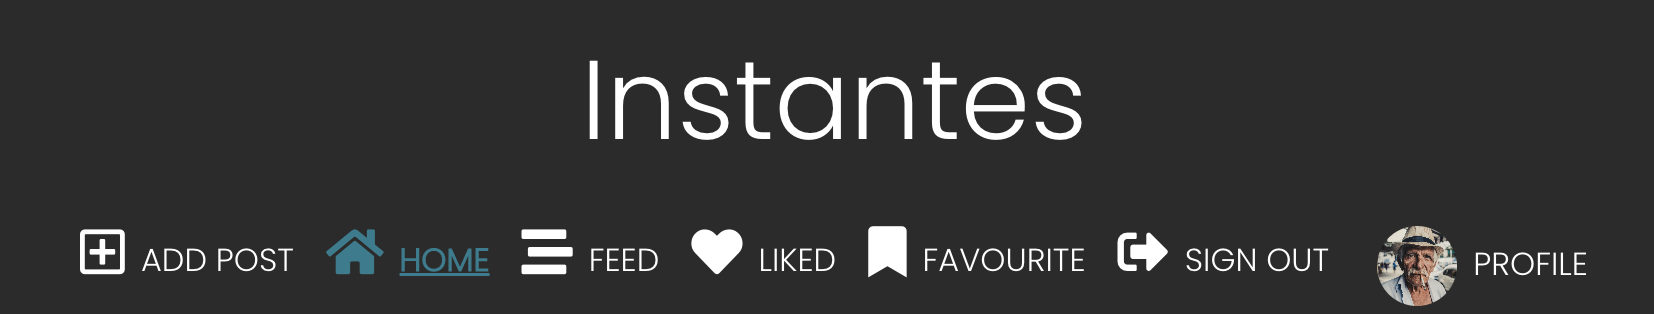
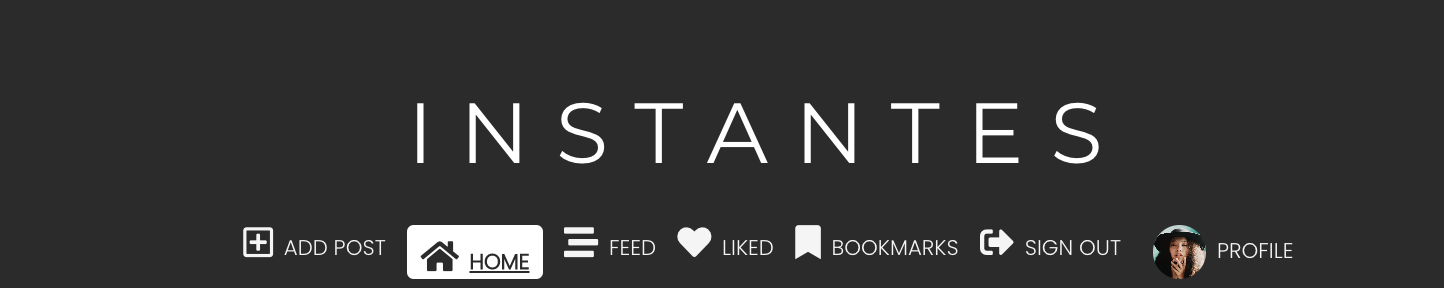
Update readme file with features content

Changed region(s): [[0.0312, 0.7188, 0.9661, 0.9688], [0.2805, 0.1875, 0.7791, 0.5625]]

diff --git a/README.md b/README.md
@@ -214,6 +214,59 @@ Logged in
 Logged out
 <img src="src/assets/comments.png" width="500px">
   
+
+* * * 
+
+### Add Post Page
+
+* * *
+
+When logged in user clicks on Add Post in the NavBar, the user can view...
+
+* NavBar displays with logged in icons as previous. Create Post link is larger and underlined.
+* Create Post Form including the following fields:
+    * Image user can click on to upload image.
+    * Title input field
+    * Description field
+    * Create button
+    * Cancel button
+
+
+<img src="src/assets/addpost.png" width="500px">
+
+* * * 
+
+### Edit Post Page
+
+* * *
+
+When logged in user clicks on three dots above their own post, the user can view...
+
+* NavBar displays with logged in icons as previous. Create Post link is larger and underlined.
+* Create Post Form including the following fields with default content:
+    * Image user can click on button below to upload new image.
+    * Title input field
+    * Description field
+    * Save button
+    * Cancel button
+
+
+<img src="src/assets/editpost.png" width="500px">
+
+* * * 
+
+### Liked Page 
+
+* * *
+
+When clicking liked, the user can view all their liked posts. The layout of the page is the same as the home page and the feed page. Only difference is this will display the users liked posts only!
+
+
+
+<img src="src/assets/liked.png" width="500px">
+
+* * * 
+
 ### Bookmarks Page 
 
 * * *
@@ -256,44 +309,7 @@ When logged in user clicks on Profile in the NavBar, the user can view...
 <img src="src/assets/profile.png" width="500px">
 <img src="src/assets/threedots.png" width="500px">
 
-
-### Add Post Page
-
-* * *
-
-When logged in user clicks on Add Post in the NavBar, the user can view...
-
-* NavBar displays with logged in icons as previous. Create Post link is larger and underlined.
-* Create Post Form including the following fields:
-    * Image user can click on to upload image.
-    * Title input field
-    * Description field
-    * Create button
-    * Cancel button
-
-
-<img src="src/assets/addpost.png" width="500px">
-
-
-
-
-
-### Edit Post Page
-
-* * *
-
-When logged in user clicks on three dots above their own post, the user can view...
-
-* NavBar displays with logged in icons as previous. Create Post link is larger and underlined.
-* Create Post Form including the following fields with default content:
-    * Image user can click on button below to upload new image.
-    * Title input field
-    * Description field
-    * Save button
-    * Cancel button
-
-
-<img src="src/assets/editpost.png" width="500px">
+* * * 
   
 ### Edit Profile Page
 
@@ -436,8 +452,8 @@ Hexedecimal icon for the search bar.
 
 A couple images for our Sign In and Sign Up pages: create the mood of the site. I purposefully picked images that go with the color scheme of the site: dark, deep, masculine colors.
 
-<img src="src/assets/image1.png" width="500px">
-<img src="src/assets/image2.png" width="500px">
+<img src="src/assets/sign-in.png" width="500px">
+<img src="src/assets/sign-up.png" width="500px">
 
 
 
@@ -455,20 +471,31 @@ FEATURES:
 
 *   LANDING PAGE: Without logging in....
     * Navbar: Header title "Instantes", Home, Sign In and SignUp links (containing font awesome icons).
+    <img src="src/assets/navbar2.png" width="500px">
     * Posts rendered by all users
     * Search bar where you can search posts by relevant keyword.
+    <img src="src/assets/searchbar.png" width="500px">
     * List of most followed profiles
 
-<img src="src/assets/image1.png" width="500px">
-<img src="src/assets/image2.png" width="500px">
+    <img src="src/assets/popularprofiles.png" width="200px">
+    
+    And in mobile view....
+
+    <img src="src/assets/popularprofilesm.png" width="200px">
+
+    * List of most liked posts
+
+    <img src="src/assets/popularposts.png" width="200px">
+    
+    And in mobile view...
+
+    <img src="src/assets/popularpostsm.png" width="200px">
+
 
 *   LANDING PAGE: Once logged in....
     * Only difference is in the Navbar: App name, AddPost, Home, Feed, Liked, Favourite, Sign Out, and Profile link and avatar.
+    <img src="src/assets/navbar.png" width="500px">
 
-
-<img src="static/images/homescreen.png" width="500px">
-
-  
 
 
 * * * 
@@ -479,17 +506,33 @@ FEATURES:
 
 When user clicks a on Sign In link on navbar:
 
+<img src="src/assets/signin.png" width="500px">
+
+
 * NavBar displays: App title, Home, Sign In (is in larger font and underlined), and Sign Up link 
+
+    <img src="src/assets/navbar3.png" width="500px">
+
+
 * Sign In form containing the following:
     * Form title: Sign In.
     * Username
     * Password
     * Sign in Button
     * Link below to Sign Up (in case user has not created a profile yet!)
+
+    <img src="src/assets/signinform.png" width="500px">
+
+    <img src="src/assets/signuplink.png" width="500px">
+
+
+
 * Image by the form. This image disappears when using smaller mobile screens.
 
+    <img src="src/assets/signinm.png" width="500px">
 
-<img src="static/images/recipe-detail.png" width="500px">
+
+
 
 ### Sign Up Page 
 
@@ -497,7 +540,13 @@ When user clicks a on Sign In link on navbar:
 
 When user clicks a on Sign Up link on navbar:
 
+<img src="src/assets/signup.png" width="500px">
+
+
 * NavBar displays: App title, Home, Sign In, and Sign Up (is in larger font and underlined)link .
+
+<img src="src/assets/navbar4.png" width="500px">
+
 * Sign Up form containing the following:
     * Form title: Sign Up.
     * Username
@@ -505,10 +554,14 @@ When user clicks a on Sign Up link on navbar:
     * Confirm password
     * Sign Up Button
     * Link below to Sign Up (in case user already has an account!)
+
+<img src="src/assets/signupform.png" width="500px">
+
+
 * Image by the form. This image disappears when using smaller mobile screens.
 
+<img src="src/assets/signupm.png" width="500px">
 
-<img src="static/images/recipe-detail.png" width="500px">
 
 ### Feed Page 
 
@@ -516,8 +569,14 @@ When user clicks a on Sign Up link on navbar:
 
 When the logged in user clicks a on the Feed link on navbar:
 
-* NavBar displays with logged in icons as previous: Feed link is in larger font and underlined.
+* NavBar displays with logged in icons as previous: Feed link differently styled so as to stand out.
+
+<img src="src/assets/navbar5.png" width="500px">
+
 * Search field.
+
+<img src="src/assets/searchbar.png" width="500px">
+
 * Listed posts rendered below. Please note these are the posts of followed user only! Each post displays:
     * Post author with avatar by it.
     * Date of post
@@ -525,42 +584,71 @@ When the logged in user clicks a on the Feed link on navbar:
     * Image title
     * Image description content
     * Links: Like button and count, Bookmark button and count, and Comment fontaweson icon and count
-* List of most followed users
 
+    <img src="src/assets/posts.png" width="500px">
 
-<img src="static/images/recipe-detail.png" width="500px">
+* List of most followed profiles
 
-### Feed Page 
+    <img src="src/assets/popularprofiles.png" width="200px">
+    
+    And in mobile view....
 
-* * *
+    <img src="src/assets/popularprofilesm.png" width="200px">
 
-When the logged in user clicks a on the Feed link on navbar:
+    * List of most liked posts
 
-* NavBar displays with logged in icons as previous: Feed link is in larger font and underlined.
-* Search field.
-* Listed posts rendered below. Please note these are the posts of followed user only! Each post displays:
-    * Post author with avatar by it.
-    * Date of post
-    * Image
-    * Image title
-    * Image description content
-    * Links: Like button and count, Bookmark button and count, and Comment fontaweson icon and count
-* List of most followed users
+    <img src="src/assets/popularposts.png" width="200px">
+    
+    And in mobile view...
 
+    <img src="src/assets/popularpostsm.png" width="200px">
 
-<img src="static/images/recipe-detail.png" width="500px">
 
 * * * 
   
-### Favourites Page 
+### Bookmarked Page 
 
 * * *
 
-When clicking favourites, the user can view all their favourite bookmarked posts. The layout of the page is the same as the home page and the feed page. Only difference is this will display the users favourite posts only!
+When the logged in user clicks a on the Bookmark link on navbar:
+
+* NavBar displays with logged in icons as previous: Feed link differently styled so as to stand out.
+
+<img src="src/assets/navbar6.png" width="500px">
+
+* Search field.
+
+<img src="src/assets/searchbar.png" width="500px">
+
+* Listed posts rendered below. Please note these are the posts of bookmarked posts only! Each post displays:
+    * Post author with avatar by it.
+    * Date of post
+    * Image
+    * Image title
+    * Image description content
+    * Links: Like button and count, Bookmark button and count, and Comment fontaweson icon and count
+
+    <img src="src/assets/bookmarkedpost.png" width="500px">
+
+* List of most followed profiles
+
+    <img src="src/assets/popularprofiles.png" width="200px">
+    
+    And in mobile view....
+
+    <img src="src/assets/popularprofilesm.png" width="200px">
+
+    * List of most liked posts
+
+    <img src="src/assets/popularposts.png" width="200px">
+    
+    And in mobile view...
+
+    <img src="src/assets/popularpostsm.png" width="200px">
 
 
 
-<img src="static/images/favourite-recipes.png" width="500px">
+<img src="src/assets/bookmarked.png" width="200px">
 
 * * * 
 
